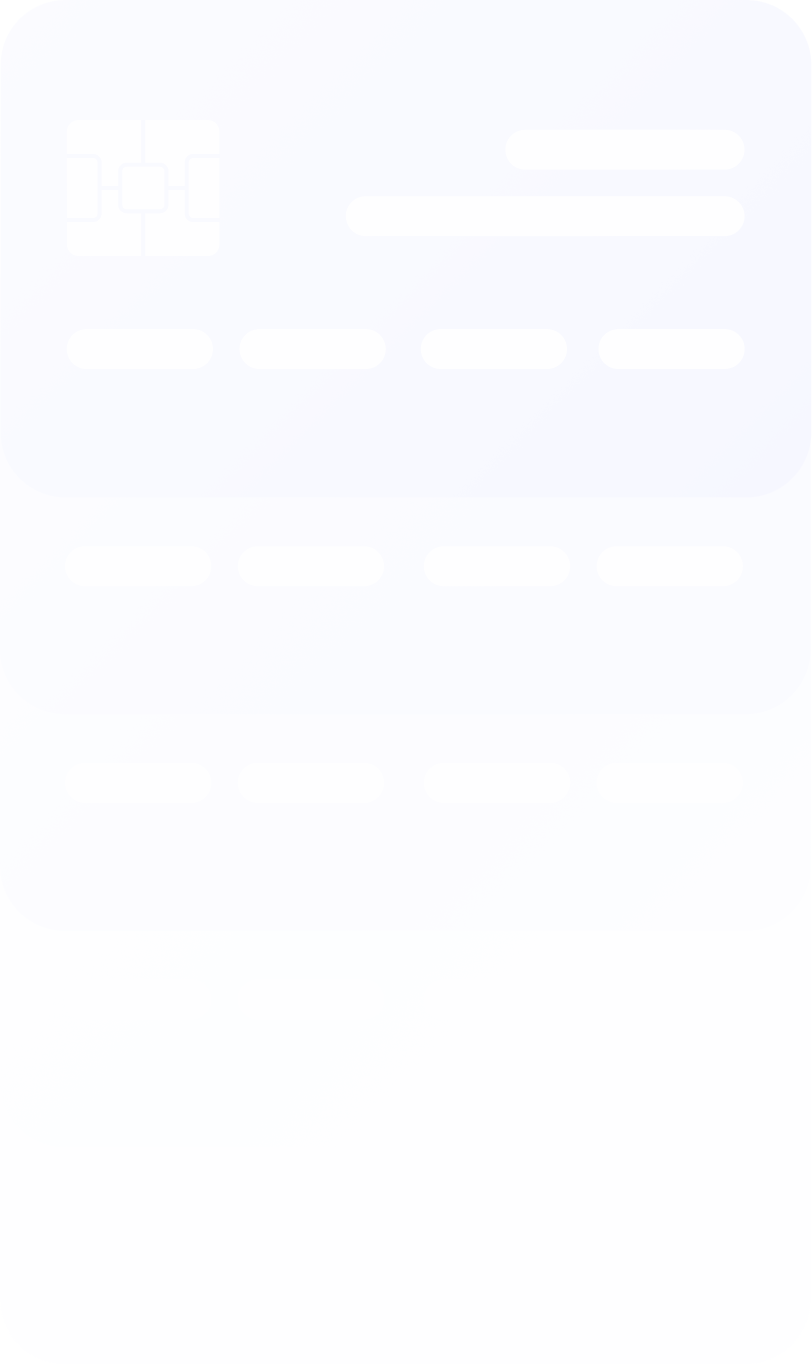
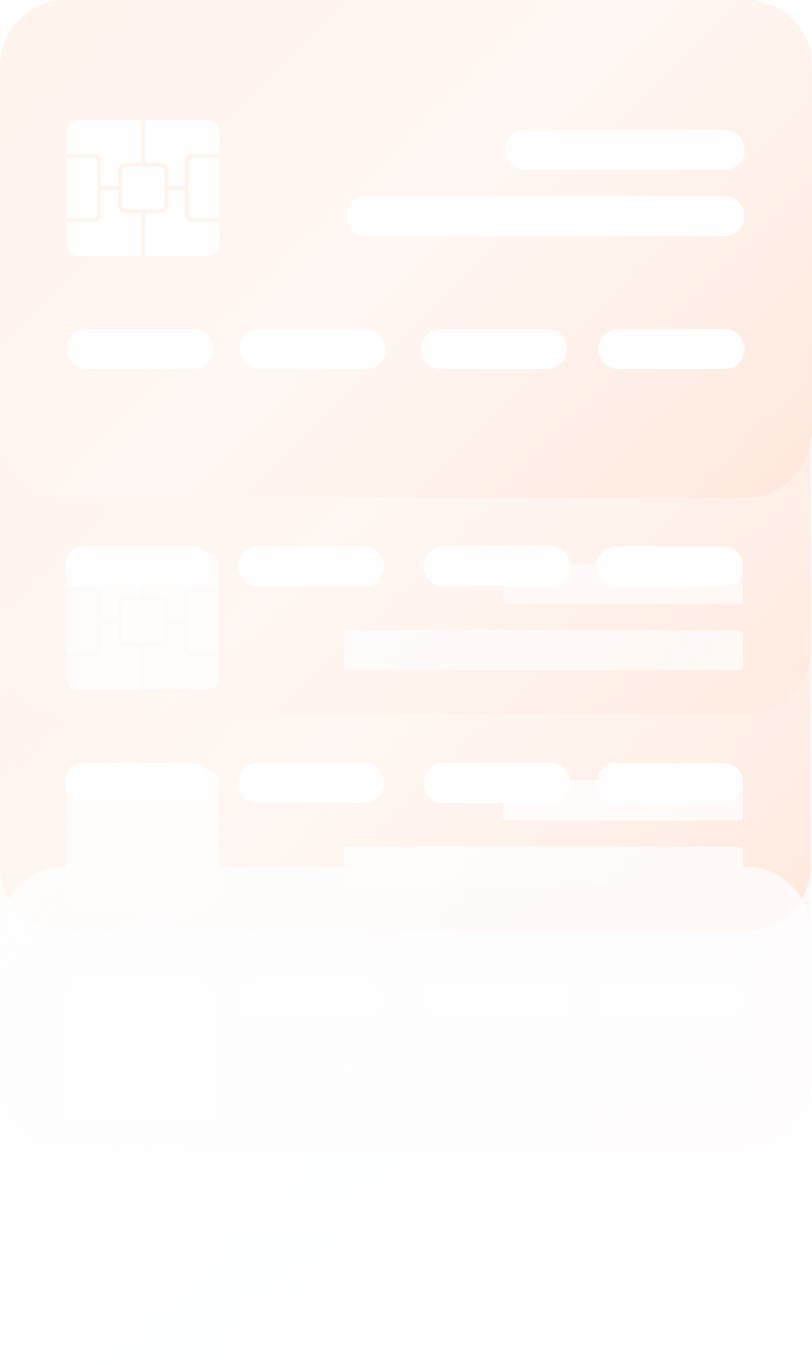
update opacity

Changed region(s): [[0.6466, 0.1538, 1.0, 0.6769]]

diff --git a/homepage/homepage.html b/homepage/homepage.html
@@ -42,7 +42,7 @@
       .body_container,
       .rm-LandingPage {
         background-color: #FCFCFF;
-        /* background-image: url("https://github.com/writechoiceorg/mo-tech-docs/blob/main/homepage/background.png?raw=true") !important; */
+        background-image: url("https://github.com/writechoiceorg/mo-tech-docs/blob/main/homepage/background.png?raw=true") !important;
         background-position-x: 75%;
         background-position-y: -120px;
         background-repeat: no-repeat;
